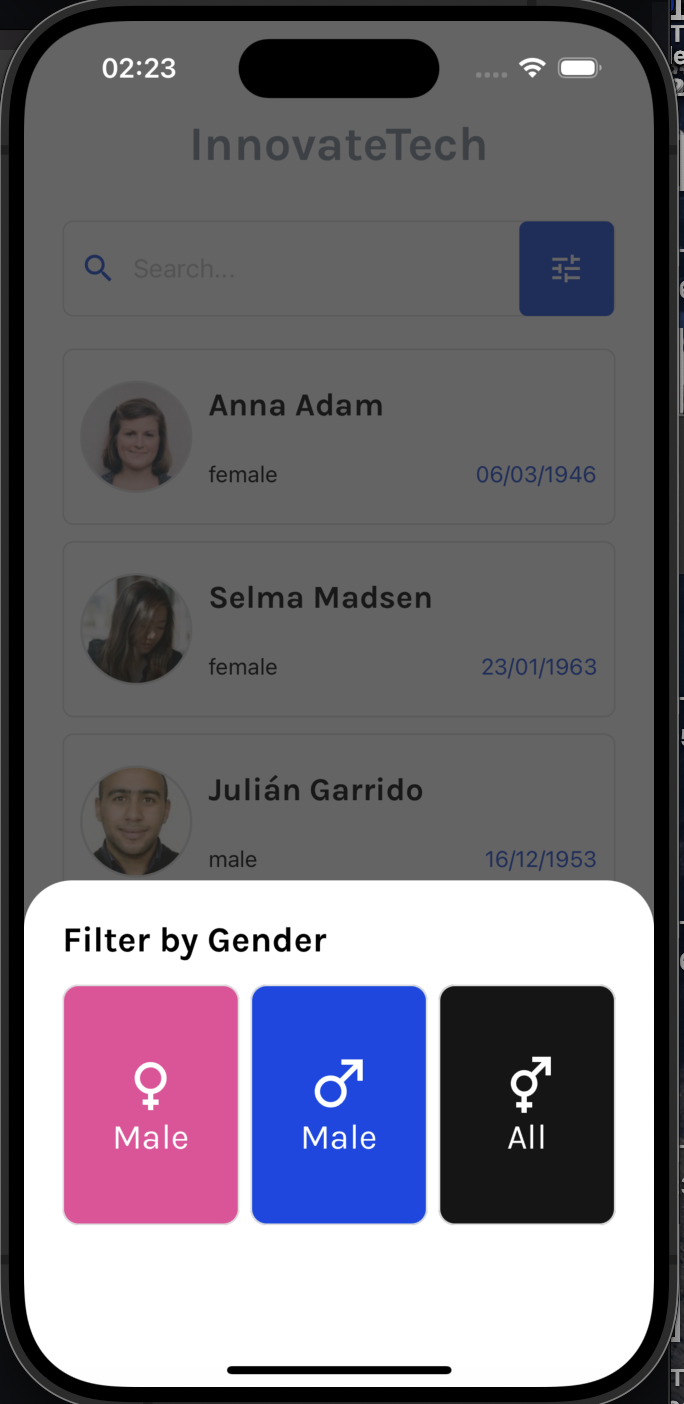
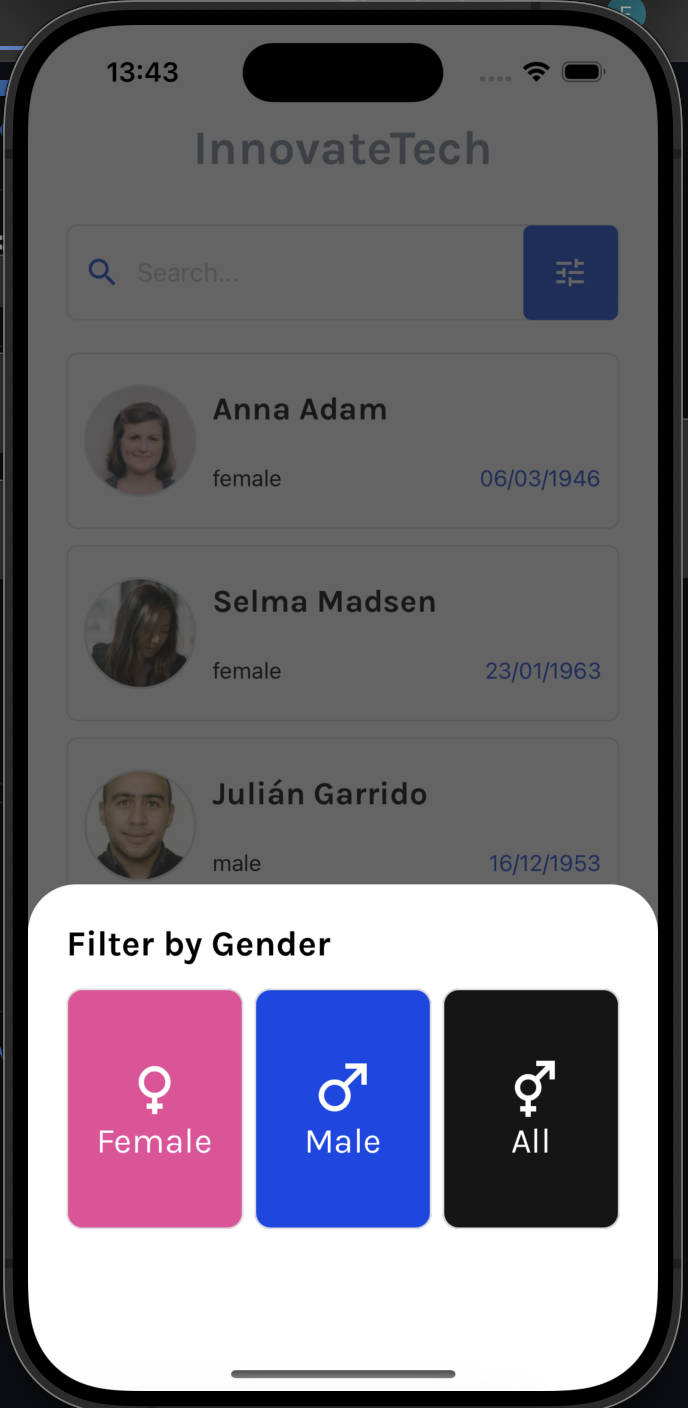
refactor: adjusted string button and image screen

diff --git a/src/components/ModalFilter.tsx b/src/components/ModalFilter.tsx
@@ -43,7 +43,7 @@ export default function ModalFilter({ setVisible }: Props) {
               style={styles.icon}
             />
             <Text style={styles.titleSelect}>
-              Male
+              Female
             </Text>
           </TouchableOpacity>
 
